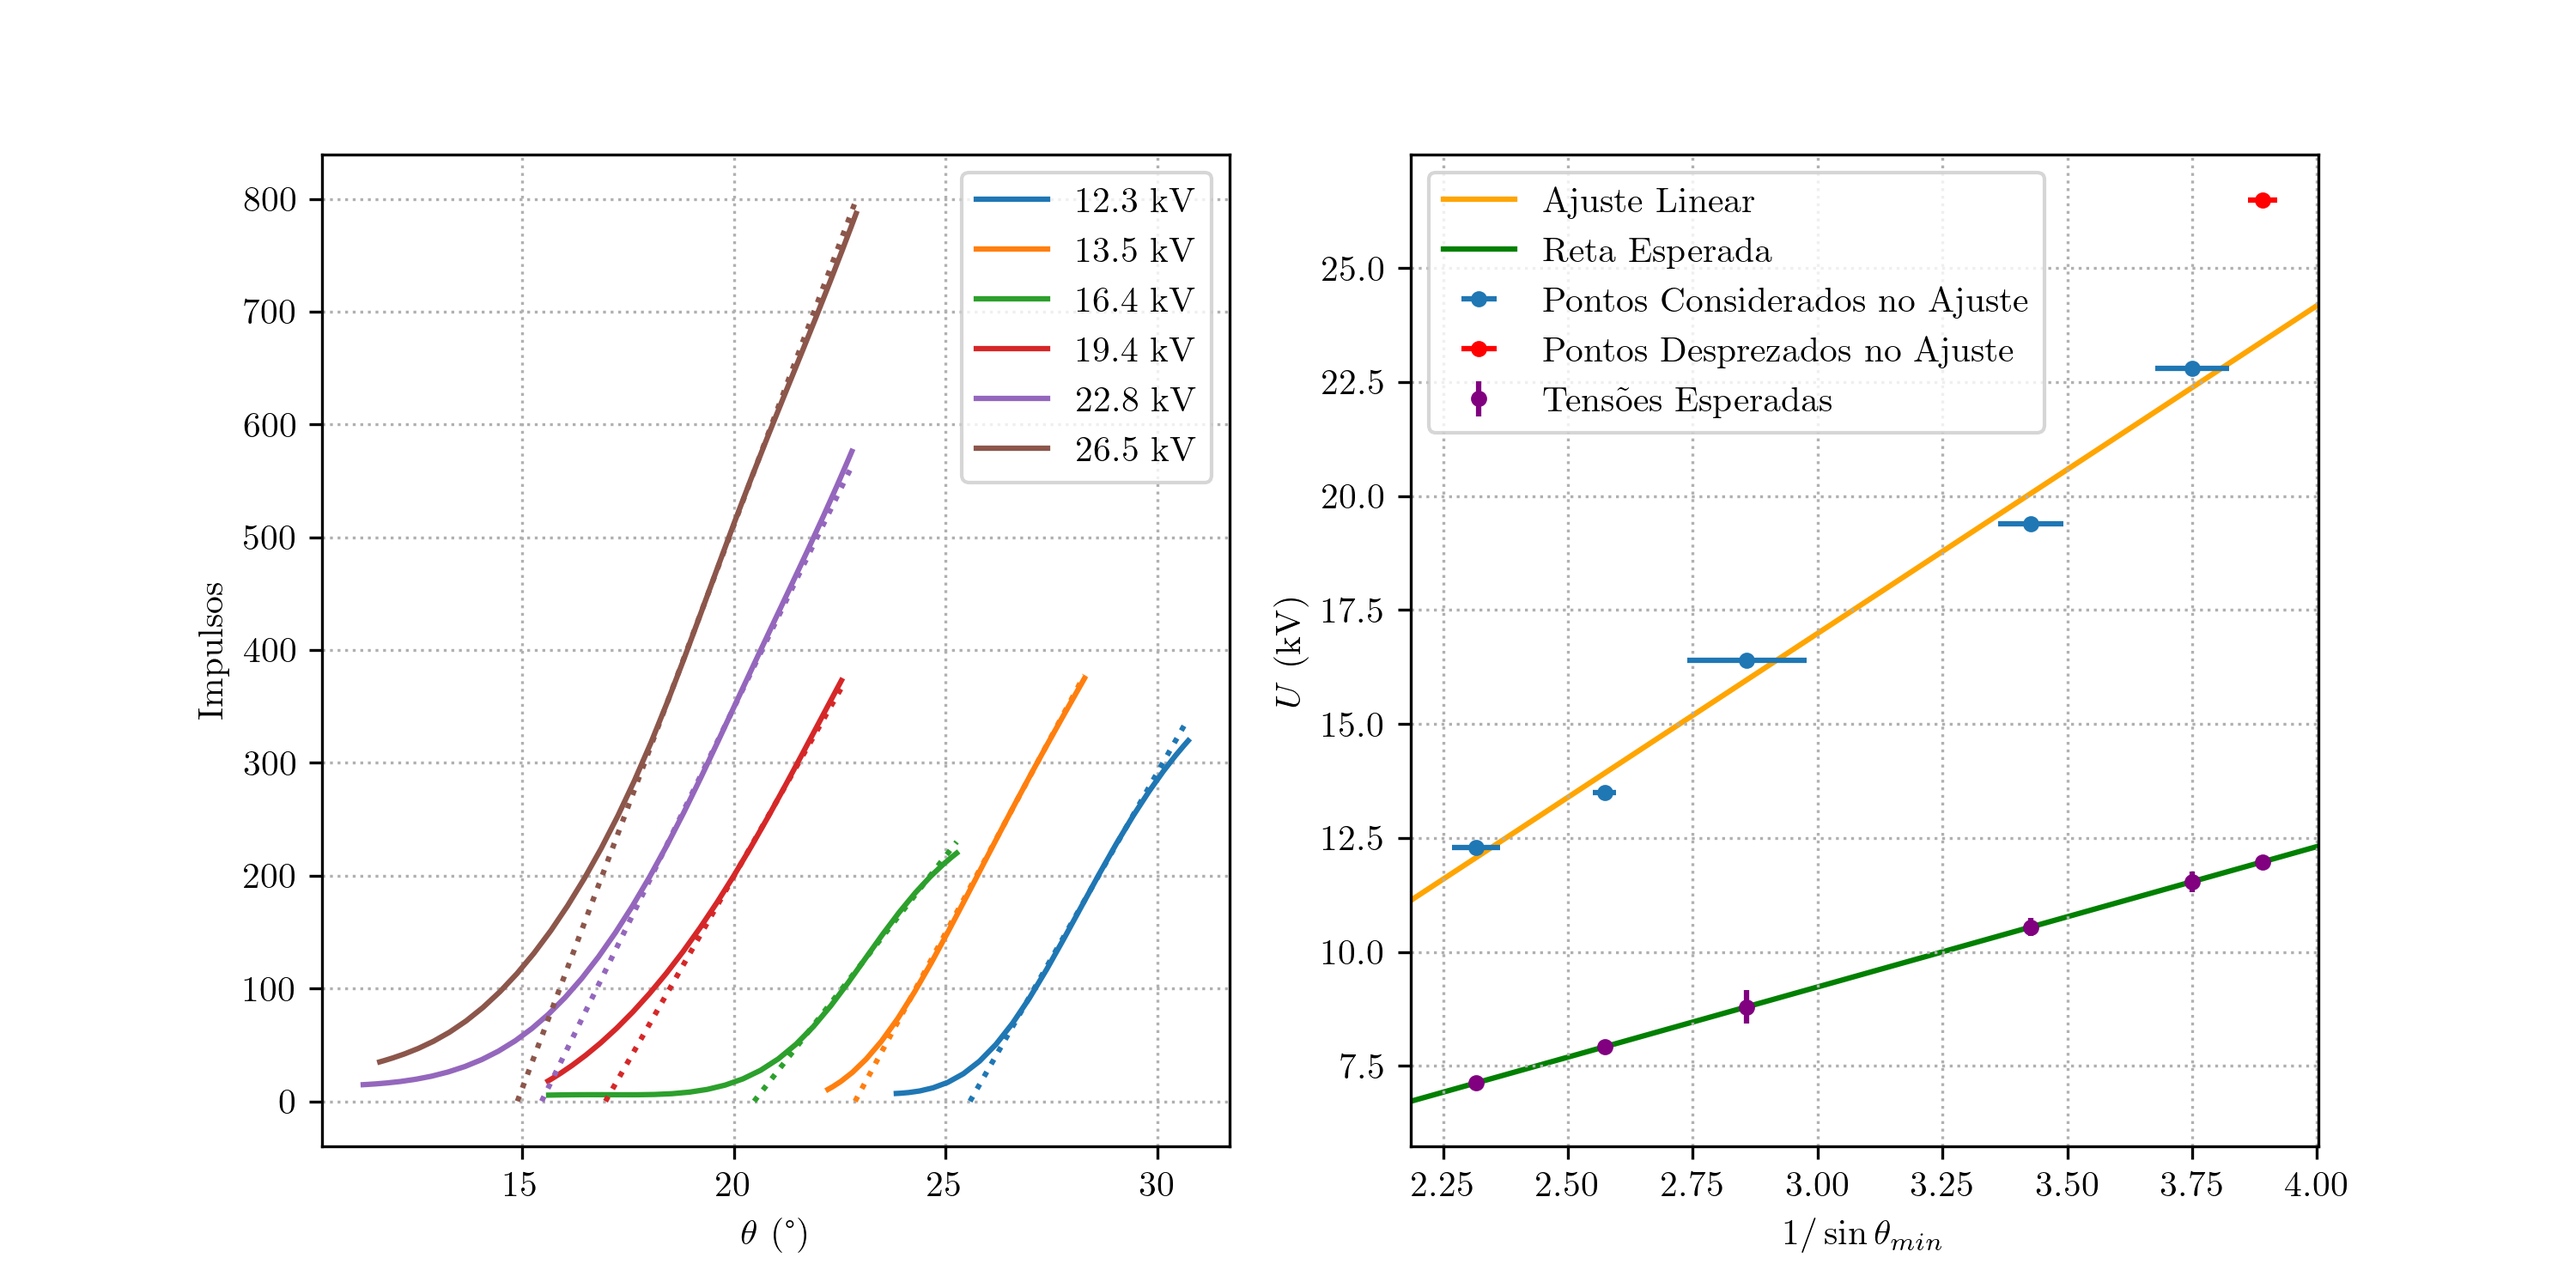
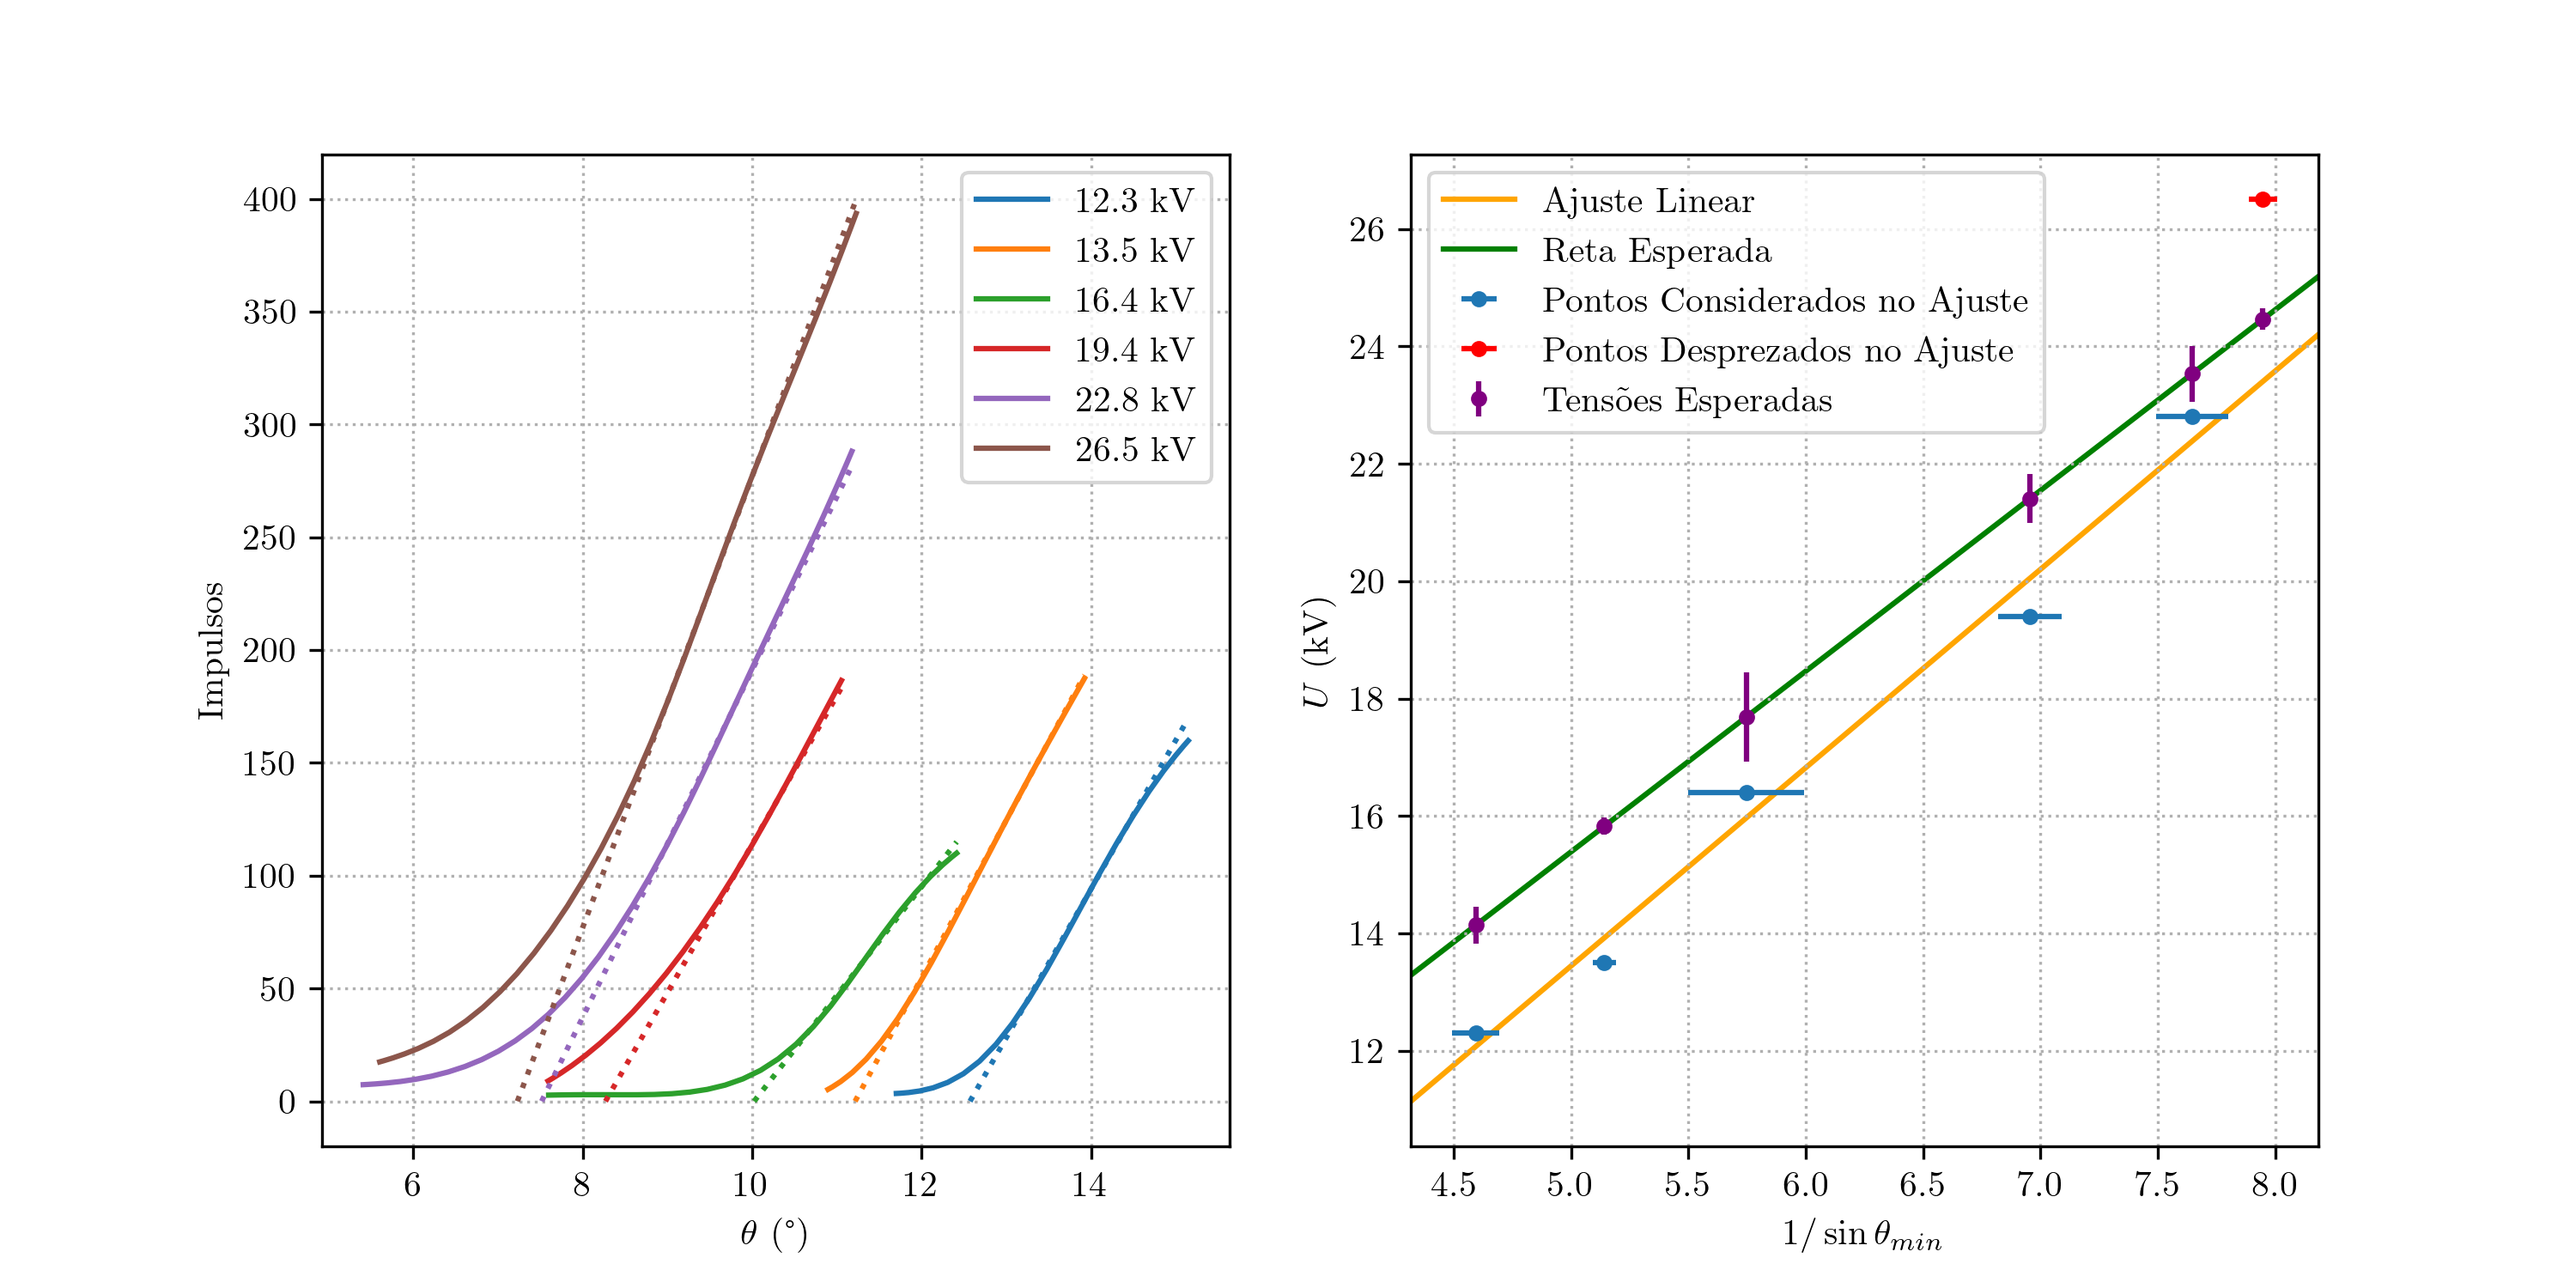
Dividing angle data by 2

diff --git a/duane_hunt.py b/duane_hunt.py
@@ -51,8 +51,8 @@ roots = []
 roots_stderr = []
 
 for voltage, df in zip(voltages, dfs):
-    x_data = df.loc[:, "Angle"] - correction
-    y_data = df.loc[:, "Impulses"]
+    x_data = df.loc[:, "Angle"] / 2 - correction
+    y_data = df.loc[:, "Impulses"] / 2
 
     x_filtered = gaussian_filter1d(x_data, sigma=3)
     y_filtered = gaussian_filter1d(y_data, sigma=3)
